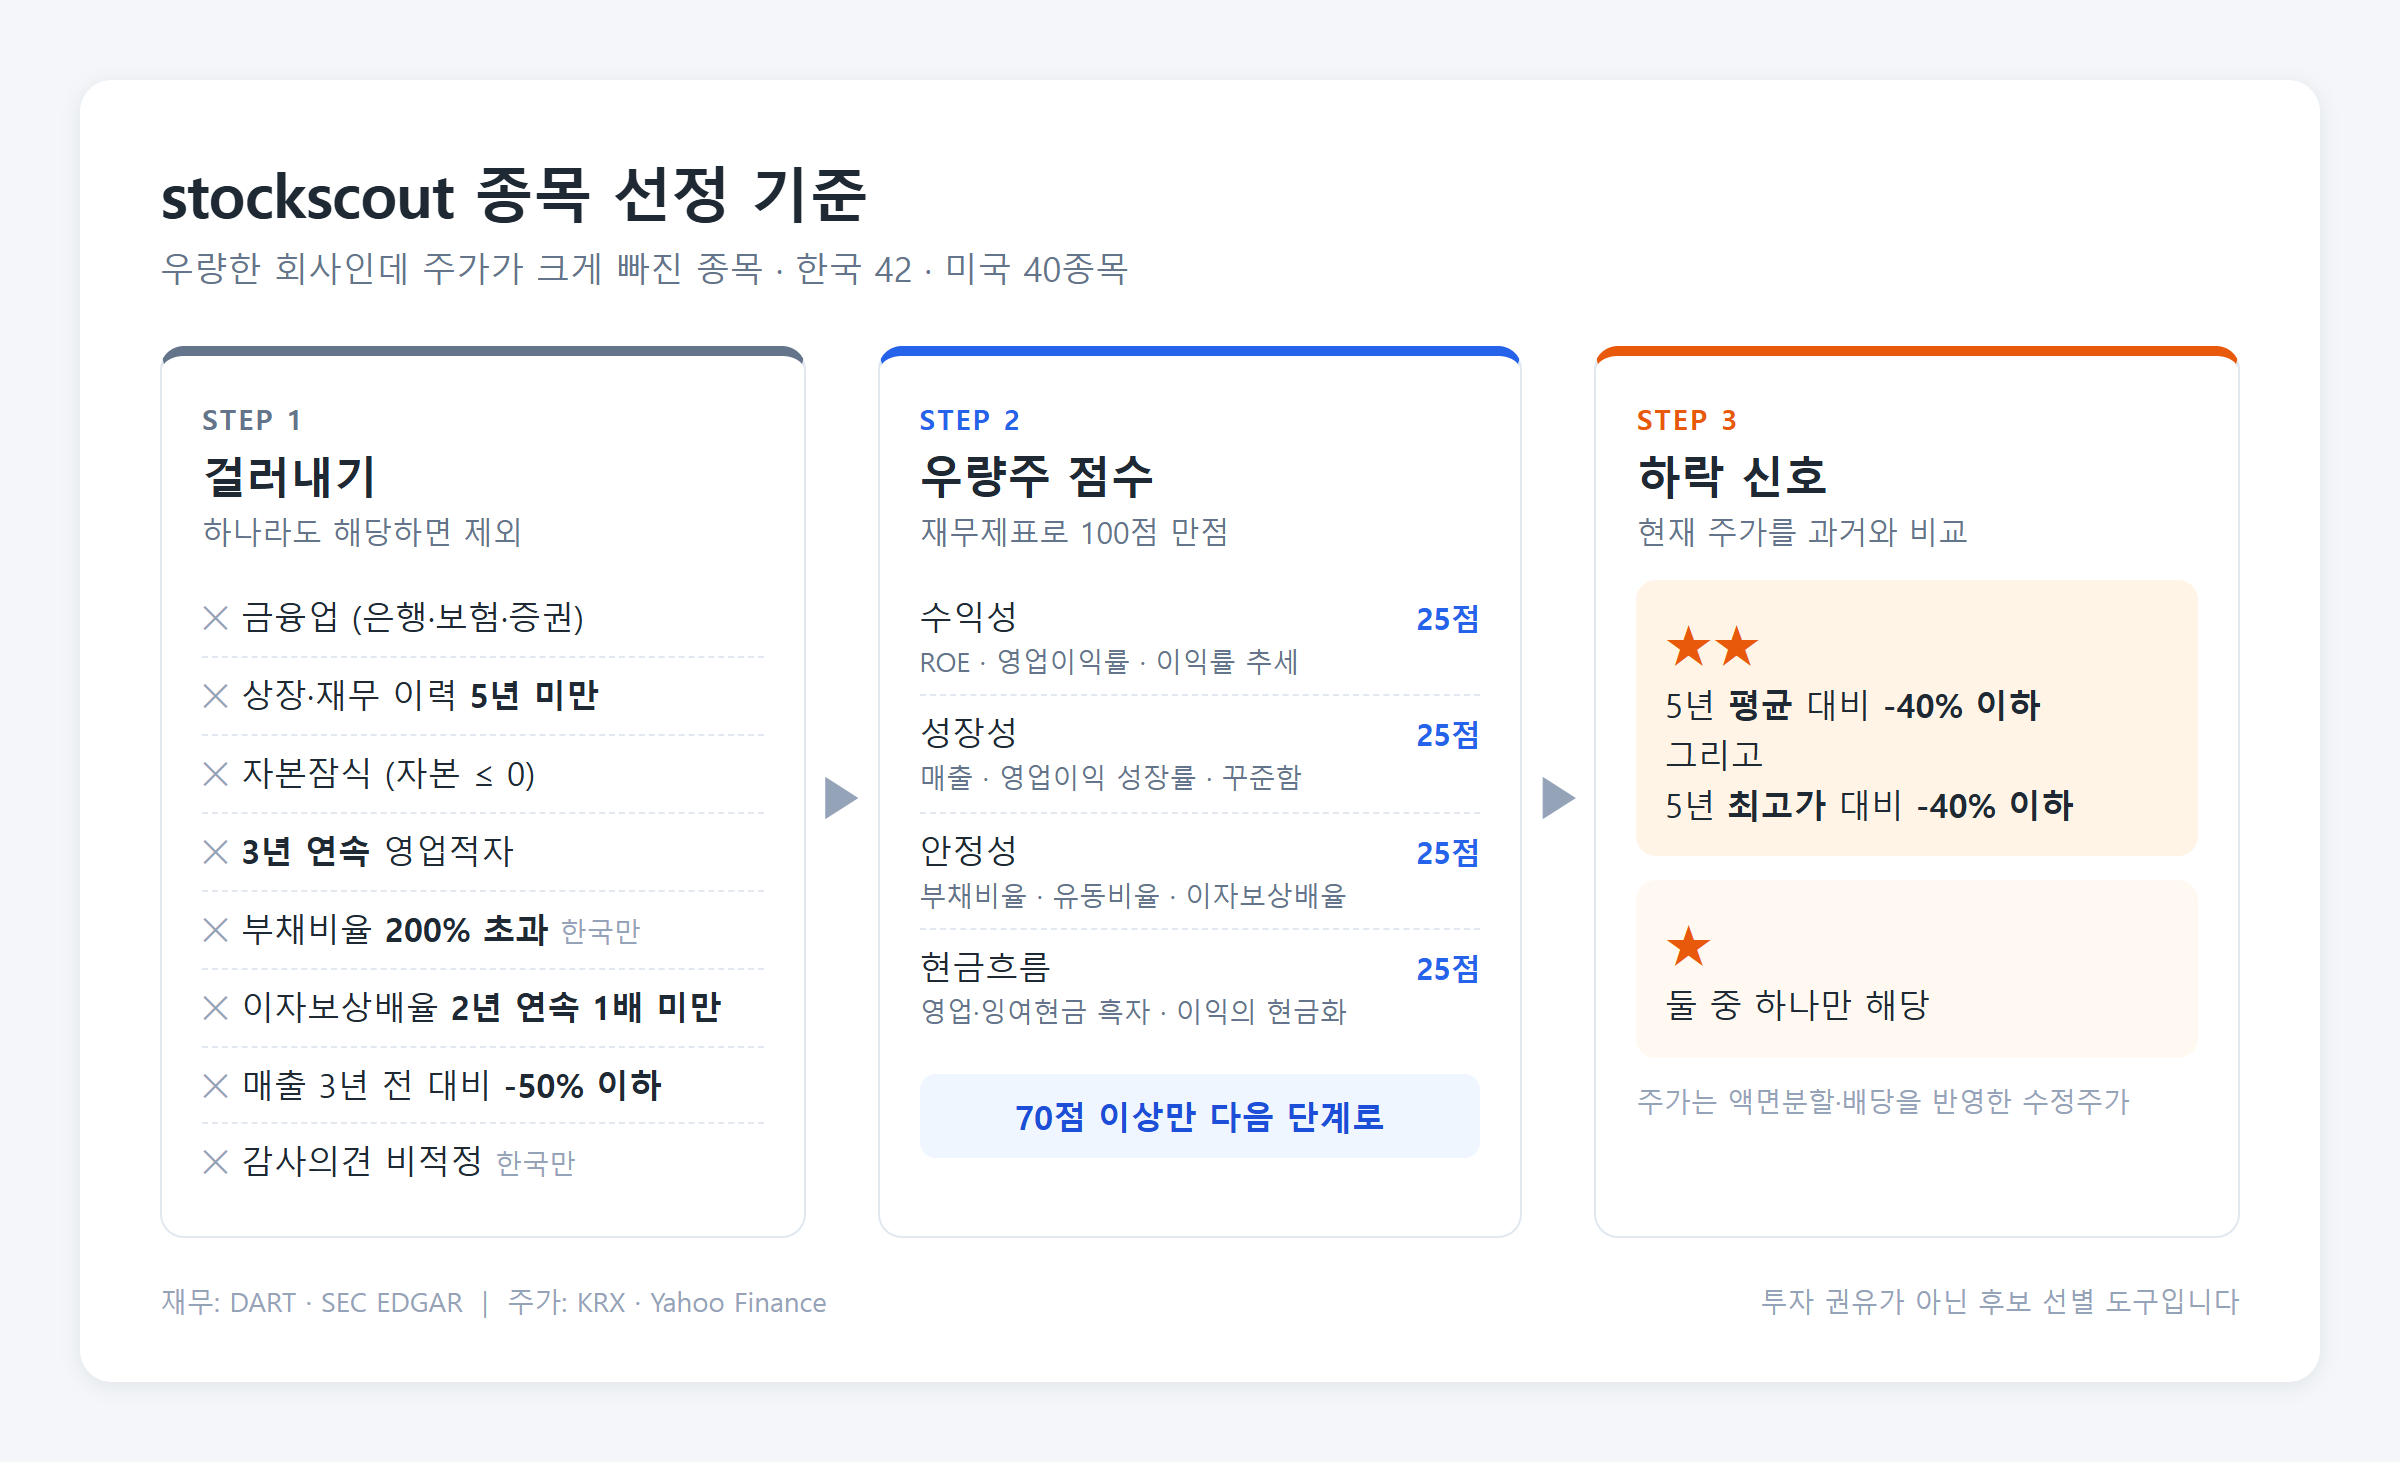
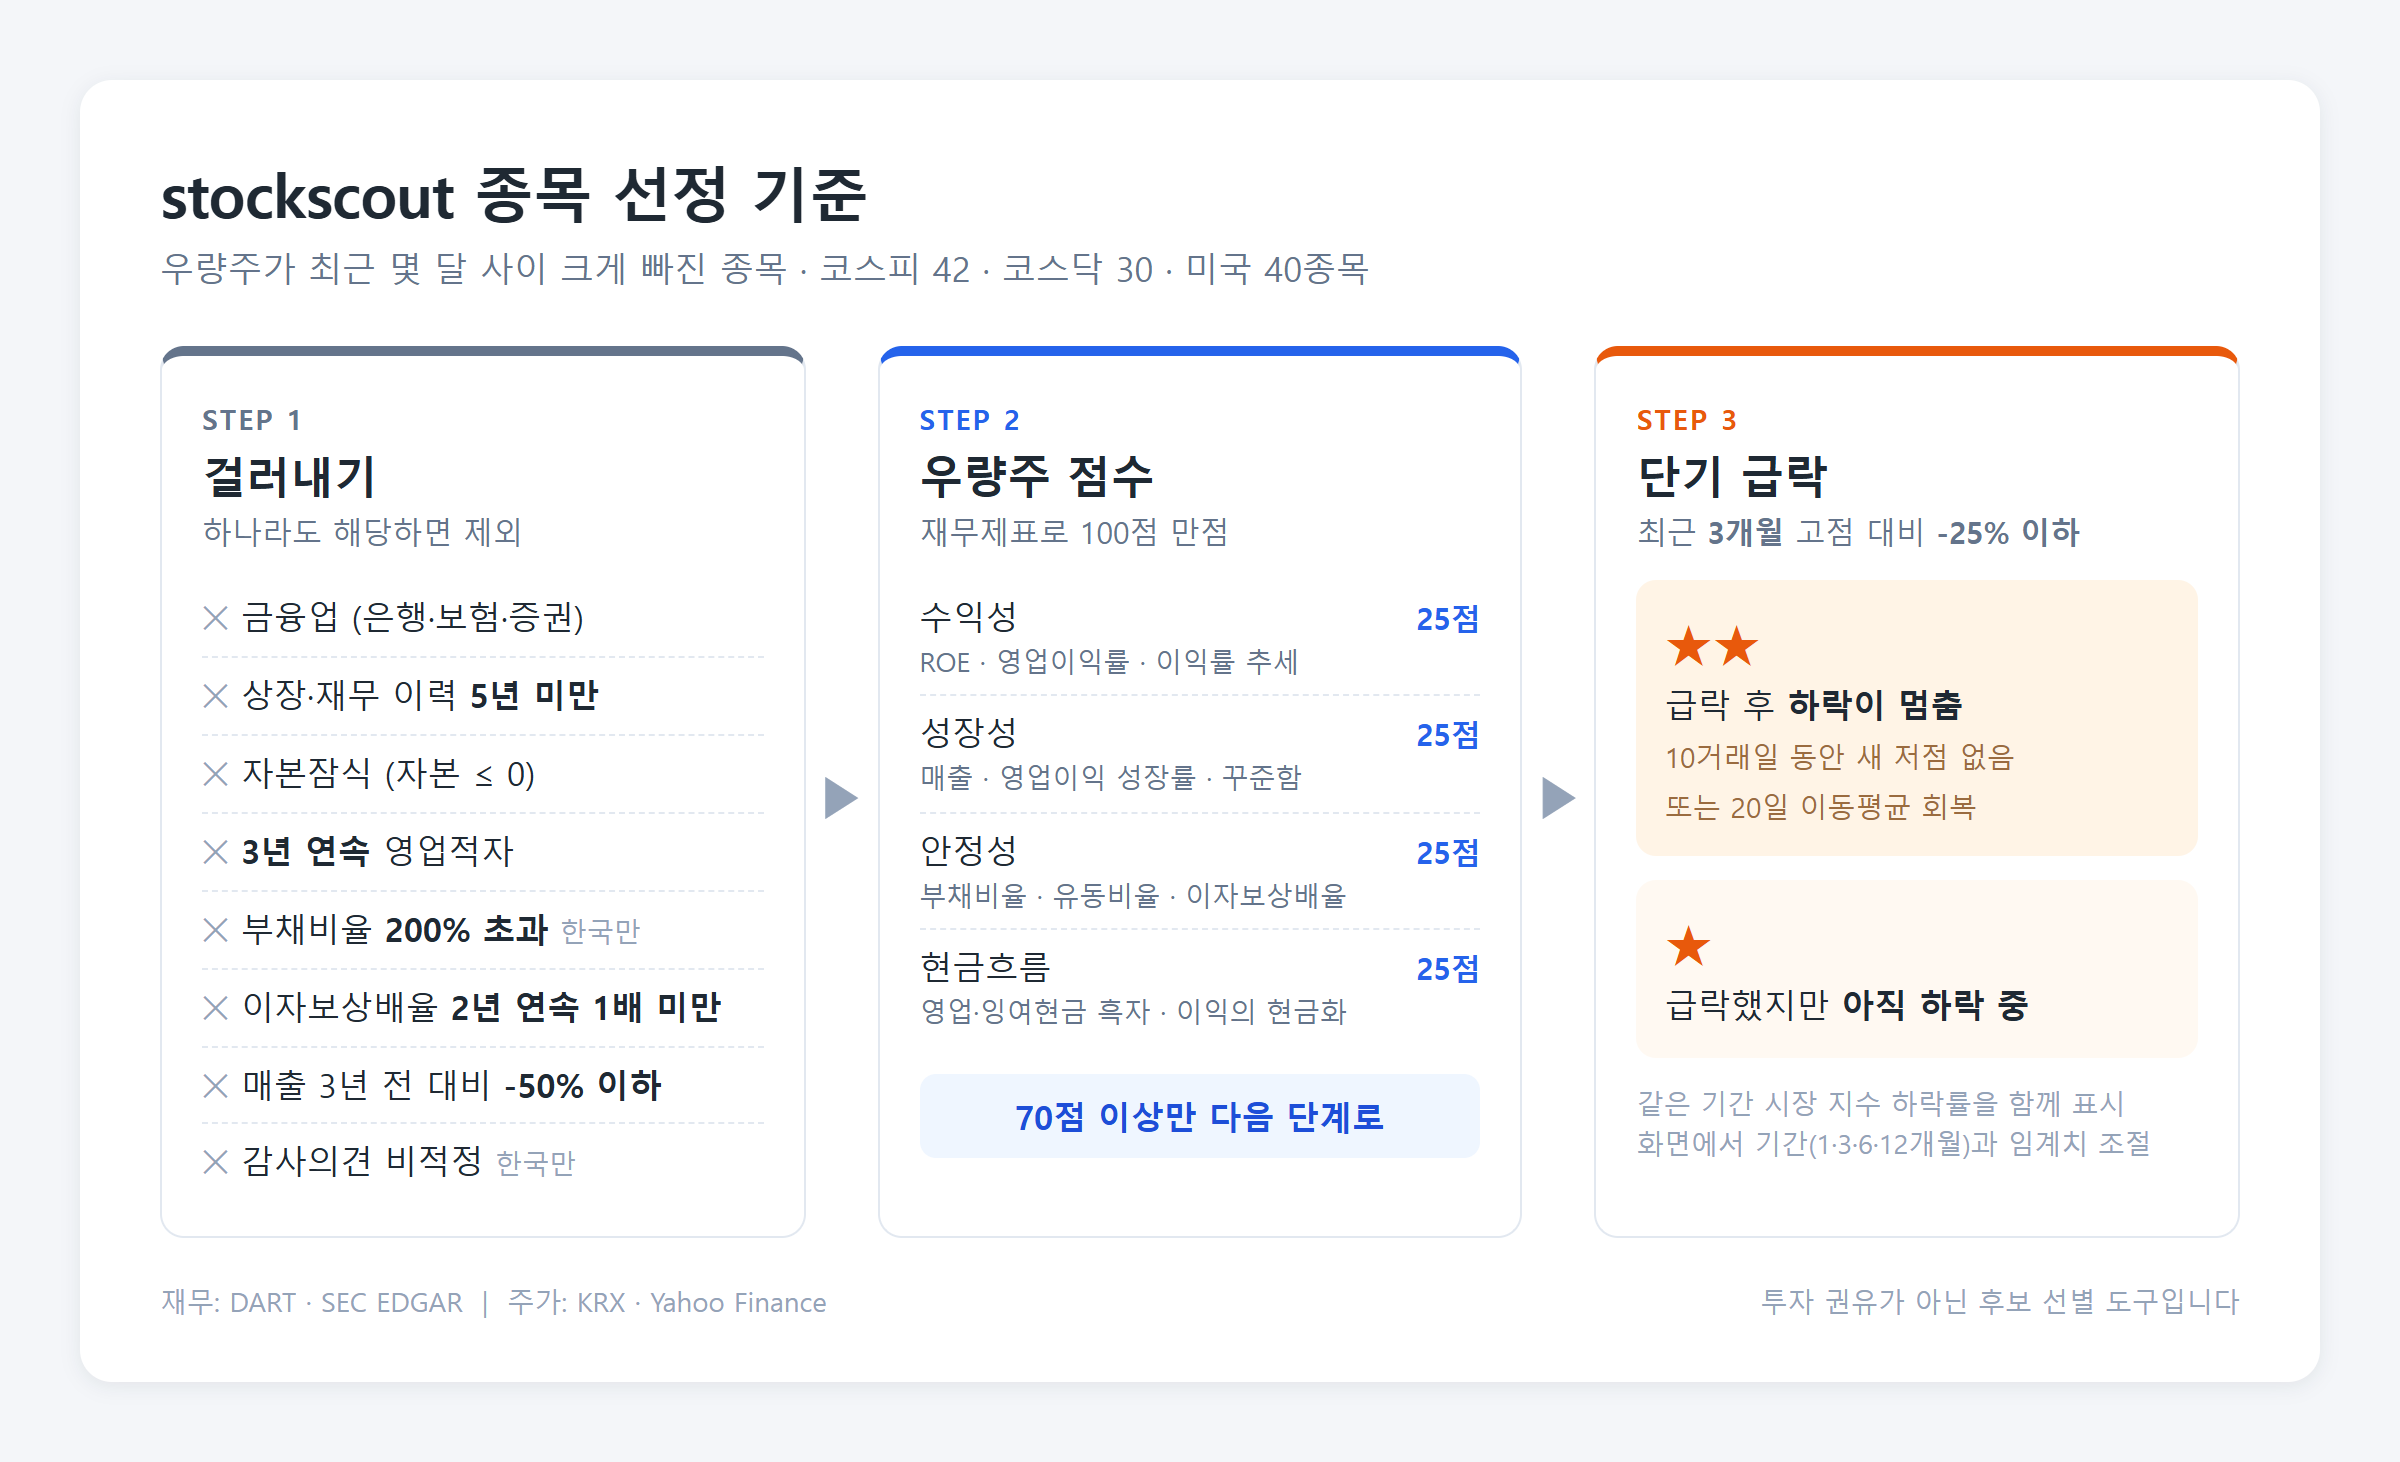
docs: 종목 선정 기준을 단기 급락 기준으로 고친다

diff --git a/docs/selection-criteria.md b/docs/selection-criteria.md
@@ -1,12 +1,12 @@
 # stockscout 종목 선정 기준
 
-**우량한 회사인데 주가가 크게 빠진 종목**을 찾는다. 대상은 한국 42종목(코스피 대형주)과 미국 40종목이다.
+**우량주가 최근 몇 달 사이 크게 빠진 종목**을 찾는다. 대상은 코스피 대형주 42종목, 코스닥 시가총액 상위 30종목, 미국 40종목이다.
 
 세 단계를 차례로 거친다.
 
 1. **걸러내기:** 위험 신호가 하나라도 있으면 제외한다
 2. **우량주 점수:** 재무로 100점 만점 점수를 매긴다
-3. **하락 신호:** 70점 이상인 회사 중 주가가 많이 빠진 곳에 ★를 준다
+3. **단기 급락:** 70점 이상인 회사 중 최근 3개월 사이 크게 빠진 곳에 ★를 준다
 
 ---
 
@@ -39,12 +39,20 @@
 - **좋은 회사의 눈높이:** ROE·영업이익률 15% 이상, 연 15% 이상 성장, 부채비율 50% 이하, 5년 연속 현금흐름 흑자면 해당 항목 만점이다
 - **자료가 없을 때:** 없는 항목은 빼고 나머지로 환산한다. 빠진 탓에 점수가 깎이지 않는다
 
-## 3단계 · 하락 신호
+## 3단계 · 단기 급락
 
-**우량주 점수 70점 이상**인 회사만 본다.
+**우량주 점수 70점 이상**이면서 **최근 3개월 고점보다 25% 이상 낮은** 회사가 후보다.
 
 | 등급 | 조건 |
 |---|---|
+| ★★ | 급락 후 **하락이 멈춤**: 10거래일 동안 새 저점이 없거나, 20일 이동평균을 회복 |
+| ★ | 급락했지만 **아직 하락 중** |
+
+- 같은 기간 시장 지수(코스피·코스닥·S&P 500)의 하락률을 함께 보여 준다. 시장 전체가 빠진 것인지, 그 회사만 빠진 것인지 구분할 수 있다
+- 화면에서 기간(1·3·6·12개월)과 하락 임계치를 바꿀 수 있다
+- 주가는 액면분할·배당을 반영한 수정주가다
+
+---|---|
 | ★★ | 현재 주가가 **5년 평균보다 40% 이상** 낮고, **5년 최고가보다도 40% 이상** 낮음 |
 | ★ | 둘 중 하나만 해당 |
 
@@ -56,4 +64,4 @@
 
 - **데이터 출처:** 한국은 금융감독원 DART(재무)와 KRX(주가), 미국은 SEC EDGAR(재무)와 Yahoo Finance(주가)
 - **갱신 주기:** 재무는 연간 사업보고서 기준, 주가는 수집한 날의 전일 종가 기준이다
-- **투자 권유가 아니다:** 이 도구는 다시 살펴볼 후보를 좁혀 줄 뿐이다. ★가 붙은 것은 "싸 보이는 좋은 회사"라는 뜻이지, 오른다는 뜻이 아니다. 주가가 빠진 데에는 재무제표에 아직 드러나지 않은 이유가 있을 수 있다
+- **투자 권유가 아니다:** 이 도구는 다시 살펴볼 후보를 좁혀 줄 뿐이다. ★★의 "하락 멈춤"은 반등 예측이 아니라 아직 바닥을 새로 쓰고 있는 종목을 가르는 표시다. 주가가 빠진 데에는 연간 재무제표에 아직 드러나지 않은 이유(최근 분기 실적 등)가 있을 수 있다
